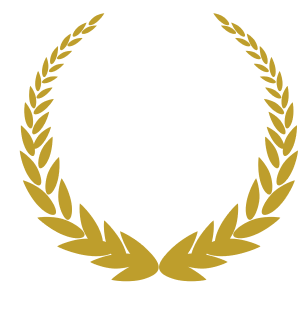
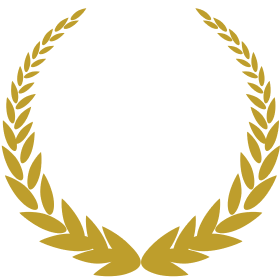
style.css, style-adapted.css, images
Уточнения к адаптации секции  GUARANTEE

Changed region(s): [[0.0, 0.0286, 1.0, 1.0]]

diff --git a/src/css/style-adapted.css b/src/css/style-adapted.css
@@ -35,6 +35,7 @@
 	}
 	.guarantee__wrapper {
 		flex-direction: column;
+		padding: 25px 0;
 	}
 	.guarantee__content {
 		text-align: center;
@@ -780,12 +781,15 @@
 		width: 26.25vw;
 		height: 23.44vw;
 		top: 50%;
+		left: 51%;
+		transform: translate(-50%, -60%);
 	}
 	.sticker__text {
 		display: none;
 	}
 	.sticker__content__image {
 		display: block;
+		width: 100%;
 	}
 	.guarantee__content__caption {
 		font-size: 4.375vw;

diff --git a/src/css/style.css b/src/css/style.css
@@ -1220,7 +1220,7 @@ only screen and (min-resolution: 144dpi) {
 .sticker__content {
 	position: absolute;
 	width: 167px;
-	left: 53%;
+	left: 51%;
 	top: 60%;
 	transform: translate(-50%, -75%);
 	text-align: center;
